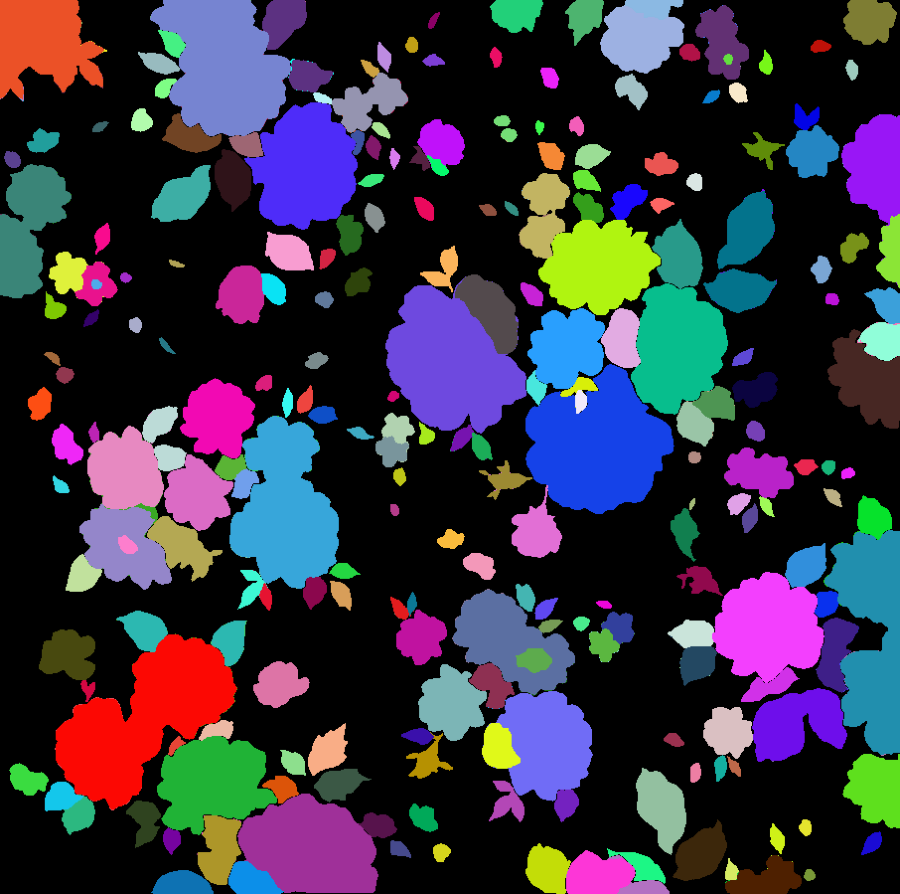
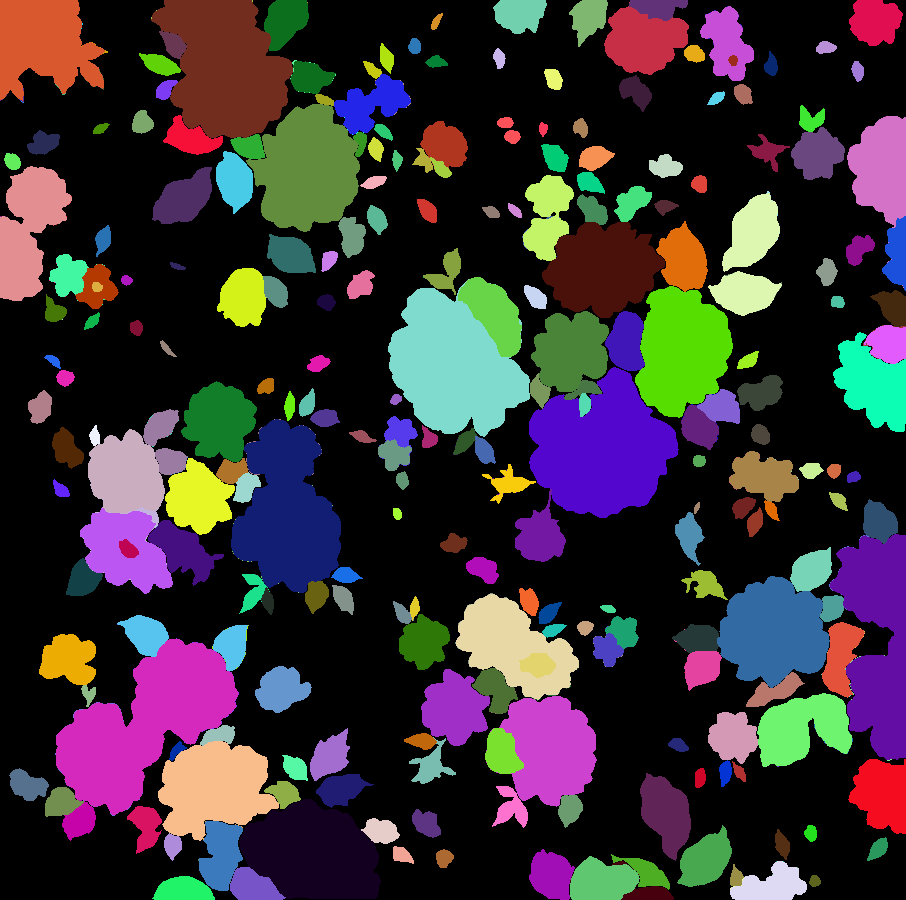
changes

diff --git a/files/templates/index.html b/files/templates/index.html
@@ -1,63 +1,45 @@
-<!--<!DOCTYPE html>
-<html>
-<head>
-    <title>Image Segmentation</title>
-    <link rel="stylesheet" type="text/css" href="{{ url_for('static', filename='styles.css') }}">
-</head>
-<body>
-    <h1>Image Segmentation</h1>
-    <form action="/segment" method="post" enctype="multipart/form-data">
-        <input type="file" name="image" accept=".jpg, .jpeg, .png">
-        <input type="submit" value="Upload">
-    </form>
-    {% if error %}
-        <p class="error">{{ error }}</p>
-    {% endif %}
-</body>
-</html>-->
-
 <!DOCTYPE html>
 <html>
 <head>
-    <title>Image Segmentation</title>
+    <title>Design Seperation</title>
     <link rel="stylesheet" href="{{ url_for('static', filename='styles.css') }}">
 </head>
 <body>
     <div class="container">
-        <h1>Image Segmentation</h1>
+        <h1>Design Seperation</h1>
         <form method="post" action="{{ url_for('segment_image') }}" enctype="multipart/form-data">
             <input type="file" name="image" id="imageInput" accept=".jpg, .jpeg, .png">
             <br>
-            <h2>Segmentation Parameters</h2>
-            <label for="pointsPerSide">Points Per Side:</label>
+            <h2>Seperation Parameters</h2>
+            <label for="pointsPerSide">Boundary Detail:</label>
             <input type="number" name="pointsPerSide" id="pointsPerSide" min="8" max="128" value="32">
             <br>
-            <label for="predIouThresh">Pred IOU Threshold:</label>
+            <label for="predIouThresh">Patch Accuracy Threshold:</label>
             <input type="number" name="predIouThresh" id="predIouThresh" step="0.01" min="0.0" max="1.0" value="0.9">
             <br>
-            <label for="stabilityScoreThresh">Stability Score Threshold:</label>
+            <label for="stabilityScoreThresh">Patch Stability Threshold:</label>
             <input type="number" name="stabilityScoreThresh" id="stabilityScoreThresh" step="0.01" min="0.0" max="1.0" value="0.96">
             <br>
-            <label for="cropNLayers">Crop N Layers:</label>
+            <label for="cropNLayers">Small Patch Detection Depth:</label>
             <input type="number" name="cropNLayers" id="cropNLayers" min="0" max="5" value="1">
             <br>
-            <label for="cropNPointsDownscaleFactor">Crop N Points Downscale Factor:</label>
+            <label for="cropNPointsDownscaleFactor">Patch Point Density Reduction Factor:</label>
             <input type="number" name="cropNPointsDownscaleFactor" id="cropNPointsDownscaleFactor" min="1" max="8" value="2">
             <br>
-            <label for="minMaskRegionArea">Min Mask Region Area:</label>
+            <label for="minMaskRegionArea">Min Patch Area:</label>
             <input type="number" name="minMaskRegionArea" id="minMaskRegionArea" min="1" max="1000" value="100">
             <br>
             <h2>Output Image Parameters</h2>
             <label for="outputImageDpi">DPI:</label>
             <input type="number" name="outputImageDpi" id="outputImageDpi" min="50" max="300" value="100">
-            <br>
+            <!--<br>
             <label for="outputImageSizeHeight">Height (px):</label>
             <input type="number" name="outputImageSizeHeight" id="outputImageSizeHeight" min="100" max="2000" value="900">
             <br>
             <label for="outputImageSizeBreadth">Breadth (px):</label>
-            <input type="number" name="outputImageSizeBreadth" id="outputImageSizeBreadth" min="100" max="2000" value="906">
+            <input type="number" name="outputImageSizeBreadth" id="outputImageSizeBreadth" min="100" max="2000" value="906">-->
             <br>
-            <input type="submit" value="Segment Image" class="submit-button">
+            <input type="submit" value="Seperate Design" class="submit-button">
         </form>
         {% if error %}
         <p class="error-message">{{ error }}</p>

diff --git a/files/templates/result.html b/files/templates/result.html
@@ -1,11 +1,11 @@
 <!DOCTYPE html>
 <html>
 <head>
-    <title>Image Segmentation Result</title>
+    <title>Design Result</title>
     <link rel="stylesheet" type="text/css" href="{{ url_for('static', filename='styles.css') }}">
 </head>
 <body>
-    <h1>Image Segmentation Result</h1>
+    <h1>Design Seperation Result</h1>
     <div class="image-container">
         <img src="{{ image_path }}" alt="Original Image">
         <img src="{{ visualization_path }}" alt="Segmentation Result">

diff --git a/app.py b/app.py
@@ -4,11 +4,28 @@ import os
 import cv2
 import numpy as np
 import torch
+import matplotlib
+matplotlib.use('Agg')
 import matplotlib.pyplot as plt
 from PIL import Image
 import sys
 import logging
 from werkzeug.serving import run_simple
+import webbrowser
+from threading import Timer
+
+if getattr(sys, 'frozen', False):
+    template_folder = os.path.join(sys._MEIPASS, 'templates')
+    static_folder = os.path.join(sys._MEIPASS, 'static')
+    checkpoint_dir = os.path.dirname(sys.executable)
+    app = Flask(__name__, template_folder=template_folder, static_folder=static_folder)
+    app.debug = True
+else:
+    checkpoint_dir = os.path.dirname(os.path.abspath(__file__))
+    app = Flask(__name__)
+
+def open_browser():
+    webbrowser.open_new('http://127.0.0.1:5000/')
 
 # Import necessary SAM modules
 sys.path.append("..")
@@ -22,13 +39,16 @@ UPLOAD_FOLDER = 'files/static/uploads'
 app.config['UPLOAD_FOLDER'] = UPLOAD_FOLDER
 
 # Get the absolute path to the checkpoint file
-checkpoint_dir = os.path.dirname(os.path.abspath(__file__))
-sam_checkpoint = os.path.join(checkpoint_dir, 'files', 'static', 'sam_vit_h_4b8939.pth')
+#checkpoint_dir = os.path.dirname(os.path.abspath(__file__))
+#sam_checkpoint = os.path.join(checkpoint_dir, 'files', 'static', 'sam_vit_h_4b8939.pth')
+checkpoint_rel_path = os.path.join('files', 'static', 'sam_vit_h_4b8939.pth')
+sam_checkpoint = os.path.join(checkpoint_dir, checkpoint_rel_path)
 
 # Load the SAM model
 #sam_checkpoint = "sam_vit_h_4b8939.pth"
 model_type = "vit_h"
 device = "cuda" if torch.cuda.is_available() else "cpu"
+#print(device)
 
 sam = sam_model_registry[model_type](checkpoint=sam_checkpoint)
 sam.to(device=device)
@@ -68,8 +88,8 @@ def segment_image():
     crop_n_points_downscale_factor = int(request.form.get('cropNPointsDownscaleFactor'))
     min_mask_region_area = int(request.form.get('minMaskRegionArea'))
     output_image_dpi = int(request.form.get('outputImageDpi'))
-    output_image_size_height = int(request.form.get('outputImageSizeHeight'))
-    output_image_size_breadth = int(request.form.get('outputImageSizeBreadth'))
+    #output_image_size_height = int(request.form.get('outputImageSizeHeight'))
+    #output_image_size_breadth = int(request.form.get('outputImageSizeBreadth'))
 
     # Perform image segmentation
     masks = perform_image_segmentation(
@@ -86,11 +106,14 @@ def segment_image():
     visualization_path = generate_segmentation_visualization(
         image_path,
         masks,
-        output_image_dpi,
-        output_image_size_height,
-        output_image_size_breadth
+        output_image_dpi
+        #output_image_size_height,
+        #output_image_size_breadth
     )
     
+    image_path = os.path.relpath(image_path, "files/")
+    visualization_path = os.path.relpath(visualization_path, "files/")
+
     # Display the visualization in the result page
     return render_template('result.html', image_path=image_path, visualization_path=visualization_path)
 
@@ -127,7 +150,7 @@ def perform_image_segmentation(
     return masks
 
 # Helper function to generate visualization of segmentation masks
-def generate_segmentation_visualization(
+'''def generate_segmentation_visualization(
     image_path,
     masks,
     output_image_dpi,
@@ -140,13 +163,41 @@ def generate_segmentation_visualization(
     for ann in masks:
         m = ann['segmentation']
         color_mask = np.random.rand(1, 1, 3) * 255
-        canvas[m] = color_mask
+        canvas[np.where(m)] = color_mask
 
     fig, ax = plt.subplots(figsize=(output_image_size_height/output_image_dpi, output_image_size_breadth/output_image_dpi), dpi=output_image_dpi)
     ax.imshow(canvas.astype(np.uint8))
     ax.axis('off')
     plt.tight_layout(pad=0)
-    
+
+    # Save the image to a file
+    image_name = os.path.basename(image_path)
+    visualization_filename = f'{image_name}_visualization.png'
+    visualization_path = os.path.join(app.config['UPLOAD_FOLDER'], visualization_filename)
+    plt.savefig(visualization_path, bbox_inches='tight', pad_inches=0, dpi=output_image_dpi)
+    plt.close()
+
+    return visualization_path'''
+
+def generate_segmentation_visualization(
+    image_path,
+    masks,
+    output_image_dpi,
+):
+    image = Image.open(image_path)
+    image_size = image.size
+    canvas = np.zeros_like(image)
+
+    for ann in masks:
+        m = ann['segmentation']
+        color_mask = np.random.rand(1, 1, 3) * 255
+        canvas[np.where(m)] = color_mask
+
+    fig, ax = plt.subplots(figsize=(image_size[0] / output_image_dpi, image_size[1] / output_image_dpi), dpi=output_image_dpi)
+    ax.imshow(canvas.astype(np.uint8))
+    ax.axis('off')
+    plt.tight_layout(pad=0)
+
     # Save the image to a file
     image_name = os.path.basename(image_path)
     visualization_filename = f'{image_name}_visualization.png'
@@ -156,5 +207,15 @@ def generate_segmentation_visualization(
 
     return visualization_path
 
+
+
 if __name__ == '__main__':
-    app.run()
+    #Timer(1, open_browser).start()
+    if getattr(sys, 'frozen', False):
+        # Running as an executable (PyInstaller)
+        sys.stdout = open(os.devnull, 'w')
+        sys.stderr = open(os.devnull, 'w')
+
+    #app.run(server='flask', threaded=True, use_reloader=False)
+    #run_simple('192.168.22.19', 5000, app, threaded=True, use_reloader=False)
+    app.run(host='192.168.22.11')
